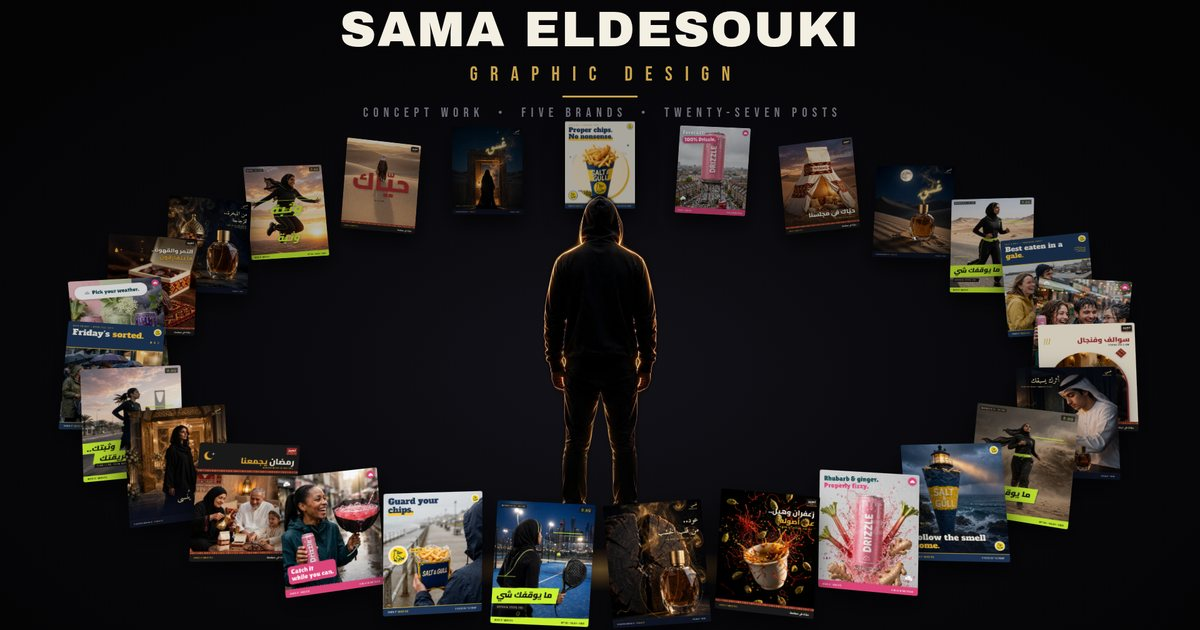
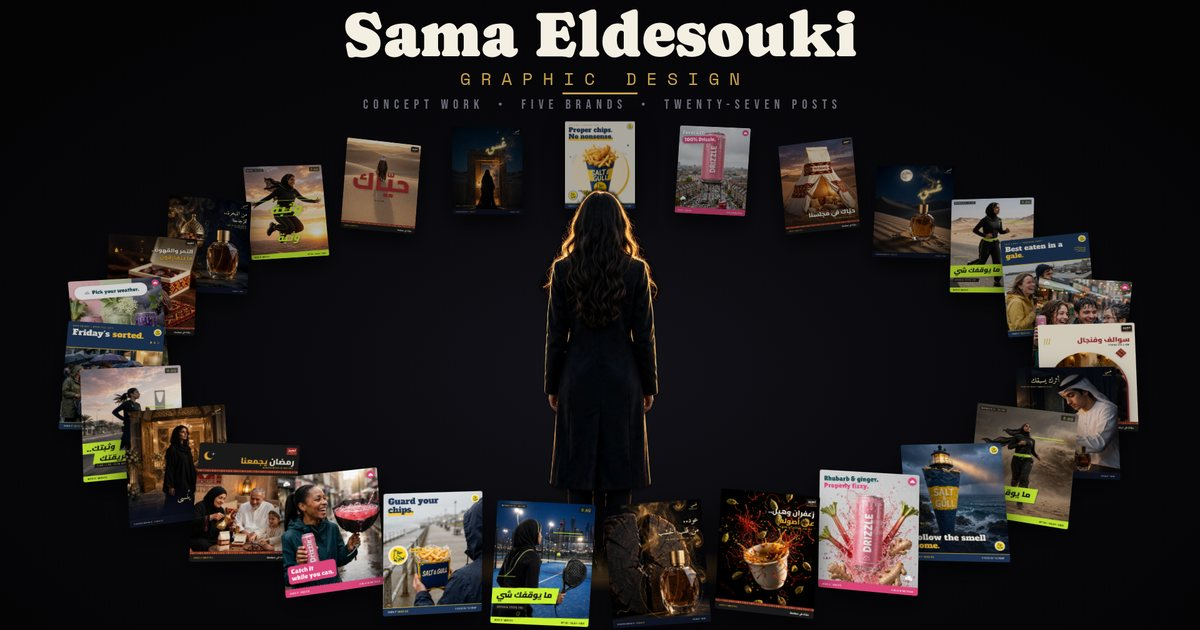
New hero image for the design page

diff --git a/design/index.html b/design/index.html
@@ -38,7 +38,7 @@
   <main>
     <section class="hero" aria-labelledby="title">
       <figure class="hero-art">
-        <img src="../assets/design/hero.webp" srcset="../assets/design/hero-960.webp 960w, ../assets/design/hero.webp 1920w" sizes="100vw" width="1920" height="1080" alt="A ring of social posts from the brands circling a figure in the dark." fetchpriority="high">
+        <img src="../assets/design/hero.webp" srcset="../assets/design/hero-960.webp 960w, ../assets/design/hero.webp 1920w" sizes="100vw" width="1920" height="1080" alt="A ring of social posts from the brands circling a long-haired figure, seen from behind in the dark." fetchpriority="high">
       </figure>
       <div class="hero-copy">
         <h1 id="title">Seven brands.<br>One idea each.</h1>
